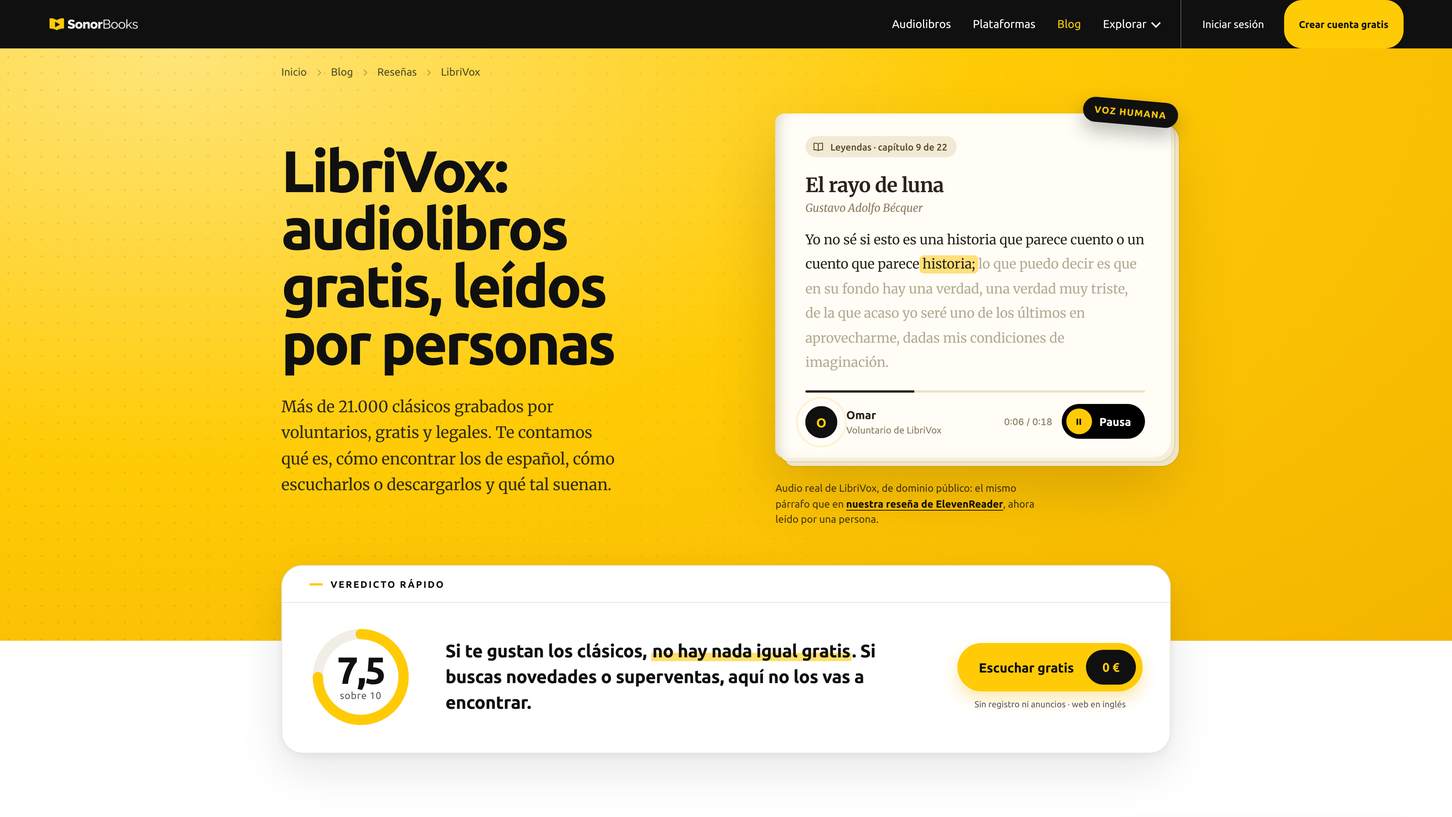
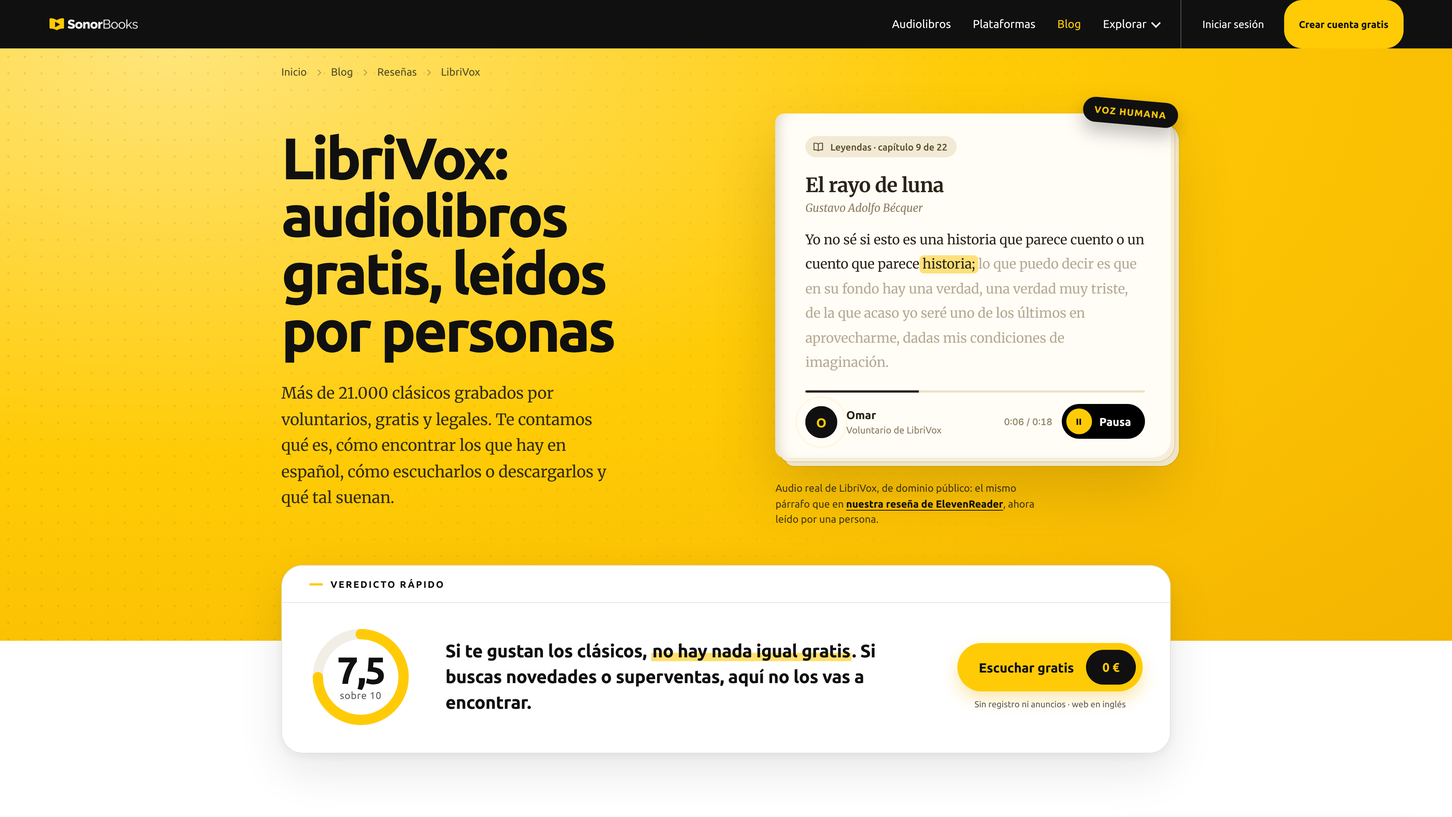
LibriVox: correcciones de la revisión y vídeo final
- Página: aviso de LibriVox completo, regla de España con el 1 de enero
  siguiente, ejemplos solo de autores españoles, M4B en varias partes en los
  libros largos, la prueba de un minuto es una sección del foro (no una
  audición) y ajustes de estilo.
- Vídeo: la escena del blog muestra la portada actualizada de la página.
- Carrusel: imágenes reales de los artículos relacionados (la web vuelve a
  responder) y dossier con la estantería y las comprobaciones.

Claude-Session: https://claude.ai/code/session_01EFLxXPykYNns1C6MHigM3j

Changed region(s): [[0.1875, 0.1551, 0.4375, 0.6204]]

diff --git a/web/librivox-resena/src/page.html b/web/librivox-resena/src/page.html
@@ -69,7 +69,7 @@
   <div class="lv-hero__grid">
    <div class="lv-hero__copy">
     <h1 class="lv-h1" id="lv-title">LibriVox: <span class="lv-h1__q">audiolibros gratis, leídos por personas</span></h1>
-    <p class="lv-deck">Más de 21.000 clásicos grabados por voluntarios, gratis y legales. Te contamos qué es, cómo encontrar los de español, cómo escucharlos o descargarlos y qué tal suenan.</p>
+    <p class="lv-deck">Más de 21.000 clásicos grabados por voluntarios, gratis y legales. Te contamos qué es, cómo encontrar los que hay en español, cómo escucharlos o descargarlos y qué tal suenan.</p>
    </div>
    <div class="lv-stage">
     <figure class="lv-book" data-player="hero-omar" data-demo>
@@ -135,7 +135,7 @@
     <h2 class="lv-h2" id="h-que">Qué es LibriVox y por qué es gratis</h2>
     <div class="lv-prose">
      <p class="lv-lead">Es un proyecto sin ánimo de lucro con un objetivo enorme: que <strong>todos los libros de dominio público tengan su audiolibro</strong>, leído por personas reales y gratis para todo el mundo. Lo fundó Hugh McGuire en agosto de 2005.</p>
-     <p>No tiene anuncios, ni cuentas, ni cuotas. Los voluntarios graban los libros, <strong>Internet Archive</strong> guarda los audios y cualquiera puede escucharlos o descargarlos. Y como las grabaciones también son de dominio público, puedes hacer con ellas lo que quieras.</p>
+     <p>No tiene anuncios ni cuotas, y para escuchar no hace falta cuenta. Los voluntarios graban los libros, <strong>Internet Archive</strong> guarda los audios y cualquiera puede escucharlos o descargarlos. Y como las grabaciones también son de dominio público, puedes usarlas libremente (en España, con un matiz que te contamos más abajo).</p>
     </div>
    </div>
    <ul class="lv-facts" aria-label="LibriVox en cifras" data-stagger>
@@ -146,7 +146,7 @@
    </ul>
    <p class="lv-source">Catálogo de LibriVox consultado el 12 de octubre de 2026 con su API pública; voluntarios, según LibriVox en agosto de 2025.</p>
    <div class="lv-keys">
-    <div class="lv-key" data-reveal><i><svg aria-hidden="true"><use href="#i-pd"/></svg></i><h3>Dominio público</h3><p>Solo graba libros sin derechos de autor, y regala sus grabaciones al dominio público.</p></div>
+    <div class="lv-key" data-reveal><i><svg aria-hidden="true"><use href="#i-pd"/></svg></i><h3>Dominio público</h3><p>Solo graba libros de dominio público en EE.&nbsp;UU. y cede sus grabaciones al dominio público.</p></div>
     <div class="lv-key" data-reveal><i><svg aria-hidden="true"><use href="#i-mic"/></svg></i><h3>Personas reales</h3><p>Cada capítulo lo lee un voluntario. Nada de voces sintéticas.</p></div>
     <div class="lv-key" data-reveal><i><svg aria-hidden="true"><use href="#i-gift"/></svg></i><h3>Gratis para todos</h3><p>Sin registro, sin anuncios y sin cuotas, para escuchar y para descargar.</p></div>
    </div>
@@ -170,13 +170,13 @@
   <!-- ¿Es legal? -->
   <section class="lv-sec" id="es-legal" aria-labelledby="h-legal">
    <div class="lv-head">
-    <h2 class="lv-h2" id="h-legal">¿Es legal? Sí: así funciona el dominio público</h2>
+    <h2 class="lv-h2" id="h-legal">¿Es legal? Sí, con un matiz en España</h2>
     <div class="lv-prose">
-     <p>LibriVox solo graba libros que ya no tienen derechos de autor en Estados Unidos: en la práctica, <strong>los publicados hace 95 años o más</strong>. Hoy, todo lo publicado hasta 1930.</p>
+     <p>LibriVox solo graba libros que ya no tienen derechos de autor en Estados Unidos: en la práctica, <strong>los publicados hace 95 años completos o más</strong>: hoy, todo lo publicado hasta 1930.</p>
      <p>Por eso aquí no hay novedades: <strong>hay clásicos</strong>. Y una traducción cuenta como una obra nueva, con sus propios derechos.</p>
     </div>
    </div>
-   <figure class="lv-ruler" data-ruler role="img" aria-label="Línea del tiempo: los libros publicados hasta 1930 son de dominio público en Estados Unidos; los posteriores aún tienen derechos de autor">
+   <figure class="lv-ruler" data-ruler role="img" aria-label="Línea del tiempo: los libros publicados hasta 1930 son de dominio público en Estados Unidos; los posteriores pueden tener aún derechos de autor">
     <div class="lv-ruler__track">
      <span class="lv-ruler__pd"><span class="lv-ruler__l">Dominio público en EE.&nbsp;UU.</span><span class="lv-ruler__s">Libres</span></span>
      <span class="lv-ruler__cr">Con derechos</span>
@@ -187,18 +187,18 @@
    <div class="lv-es" id="espana">
     <div class="lv-es__txt">
      <h3 class="lv-h3">¿Y en España?</h3>
-     <p>LibriVox sigue la ley de Estados Unidos, y en cada ficha avisa:</p>
-     <blockquote class="lv-quote"><p lang="en">«LibriVox recordings are Public Domain in the USA. If you are not in the USA, please verify the copyright status of these works in your own country before downloading.»</p><p class="lv-quote__es">Las grabaciones son de dominio público en EE.&nbsp;UU. Si no estás allí, comprueba la situación de cada obra en tu país antes de descargarla.</p></blockquote>
-     <p>En España, una obra queda libre <strong>80 años después de la muerte de su autor</strong> si murió antes del 7 de diciembre de 1987 (70 años, si murió más tarde). En una traducción también cuenta el traductor.</p>
-     <p>La mayoría de clásicos en español de LibriVox también son libres aquí, <strong>pero no todos</strong>: de sus 564 audiolibros en español, 20 son de autores que murieron en 1946 o después. Por ejemplo:</p>
+     <p>LibriVox sigue la ley de Estados Unidos y en cada ficha avisa:</p>
+     <blockquote class="lv-quote"><p lang="en">«LibriVox recordings are Public Domain in the USA. If you are not in the USA, please verify the copyright status of these works in your own country before downloading, otherwise you may be violating copyright laws.»</p><p class="lv-quote__es">Las grabaciones son de dominio público en EE.&nbsp;UU. Si no estás allí, comprueba la situación de estas obras en tu país antes de descargarlas; de lo contrario, podrías infringir la ley.</p></blockquote>
+     <p>En España, una obra queda libre <strong>80 años después de la muerte de su autor</strong>, contados desde el 1 de enero siguiente, si murió antes del 7 de diciembre de 1987 (70 años, si murió más tarde). En una traducción cuentan también los derechos del traductor.</p>
+     <p>La mayoría de los clásicos en español de LibriVox también son libres aquí, <strong>pero no todos</strong>: de sus 564 audiolibros en español, 20 son de autores que murieron en 1946 o después. Por ejemplo:</p>
     </div>
     <ul class="lv-es__list" aria-label="Libros en español de LibriVox que aún tienen derechos en España">
      <li><span class="lv-es__book"><b>Platero y yo</b><small>Juan Ramón Jiménez († 1958)</small></span><span class="lv-es__year"><small>libre en España en</small>2039</span></li>
      <li><span class="lv-es__book"><b>Las inquietudes de Shanti Andía</b><small>Pío Baroja († 1956)</small></span><span class="lv-es__year"><small>libre en España en</small>2037</span></li>
      <li><span class="lv-es__book"><b>La rana viajera</b><small>Julio Camba († 1962)</small></span><span class="lv-es__year"><small>libre en España en</small>2043</span></li>
-     <li><span class="lv-es__book"><b>El habitante y su esperanza</b><small>Pablo Neruda († 1973)</small></span><span class="lv-es__year"><small>libre en España en</small>2054</span></li>
+     <li><span class="lv-es__book"><b>Memorias de un vagón de ferrocarril</b><small>Eduardo Zamacois († 1971)</small></span><span class="lv-es__year"><small>libre en España en</small>2052</span></li>
     </ul>
-    <p class="lv-es__note">También hay traducciones de autores como H.&nbsp;G. Wells, Thomas Mann o Edgar Rice Burroughs. Es la regla general, no un asesoramiento legal: si dudas con una obra, compruébala antes de descargarla.</p>
+    <p class="lv-es__note">Es la regla general para autores españoles, no asesoramiento jurídico: en las obras de autores de otros países y en las traducciones el cálculo puede cambiar. Si tienes dudas sobre una obra, compruébala antes de descargarla.</p>
    </div>
   </section>
 
@@ -207,8 +207,8 @@
    <div class="lv-head">
     <h2 class="lv-h2" id="h-cat">El catálogo en español: más de mil obras</h2>
     <div class="lv-prose">
-     <p>El español es el <strong>cuarto idioma de LibriVox</strong>, muy por detrás del inglés. Su web cuenta 1.042 obras completadas en español (cada poema o relato de una antología cuenta aparte). En libros, son <strong>más de 550 audiolibros y más de 3.500 horas</strong>.</p>
-     <p>Hay novela, poesía, teatro, cuentos, ensayo y hasta la Biblia. Los autores con más títulos son Pérez Galdós (50), Valle-Inclán (12), Blasco Ibáñez y Pardo Bazán (11 cada uno), Unamuno (9) y Cervantes (8), y hay traducciones de Poe, Victor Hugo, Tolstói, Dumas, Verne o Dickens.</p>
+     <p>En la web de LibriVox, el español es el <strong>cuarto idioma</strong>, muy por detrás del inglés: 1.042 obras completadas (cada poema o relato de una antología se cuenta por separado). En audiolibros, son <strong>más de 550, más que en francés, y más de 3.500 horas</strong>.</p>
+     <p>Hay novela, poesía, teatro, cuentos, ensayo y hasta la Biblia. Los autores con más títulos son Pérez Galdós (50), Valle-Inclán (12), Blasco Ibáñez y Pardo Bazán (11 cada uno), Unamuno (9) y Cervantes (8). También hay traducciones de Poe, Victor Hugo, Tolstói, Dumas, Verne o Dickens.</p>
     </div>
    </div>
    <figure class="lv-langs" data-langs>
@@ -254,14 +254,14 @@
      <ol class="lv-num">
       <li><b>Abre el catálogo por idioma.</b> En <span lang="en">«Browse the catalog»</span>, pulsa <span lang="en">«Language»</span>.</li>
       <li><b>Elige <span lang="en">«Spanish»</span>.</b> Verás todas las obras en español, por orden alfabético.</li>
-      <li><b>Filtra si quieres.</b> En <span lang="en">«Project type»</span>, <span lang="en">«solo»</span> deja solo los libros leídos por una persona; <span lang="en">«group»</span>, los que leen varias.</li>
+      <li><b>Filtra si quieres.</b> En <span lang="en">«Project type»</span>, <span lang="en">«solo»</span> muestra únicamente los libros leídos por una persona; <span lang="en">«group»</span>, los que leen varias.</li>
       <li><b>Mira la línea gris de cada libro.</b> Dice si está terminado (<span lang="en">«Complete»</span>) y si lo lee una sola voz (<span lang="en">«Solo»</span>) o varias (<span lang="en">«Collaborative»</span>).</li>
      </ol>
     </div>
     <figure class="lv-fig lv-fig--stack">
-     <button type="button" data-zoom aria-label="Ampliar captura: catálogo por idioma"><img src="{{A}}/media/librivox-catalogo-por-idioma.webp" width="1600" height="1056" alt="Catálogo de LibriVox por idioma con la pestaña Language (1) y la fila Spanish, con 1.042 obras completadas (2)" loading="lazy" decoding="async"></button>
-     <button type="button" data-zoom aria-label="Ampliar captura: lista de audiolibros en español"><img src="{{A}}/media/librivox-lista-en-espanol.webp" width="1600" height="880" alt="Lista de audiolibros en español de LibriVox con el filtro Project type (3) y la línea Complete, Solo, Spanish (4)" loading="lazy" decoding="async"></button>
-     <figcaption>Los números de las capturas son los pasos de la izquierda.</figcaption>
+     <button type="button" data-zoom aria-label="Ampliar captura: catálogo por idioma"><img src="{{A}}/media/librivox-catalogo-por-idioma.webp" width="1600" height="1056" alt="Catálogo de LibriVox por idioma con la pestaña «Language» (1) y la fila «Spanish», con 1.042 obras completadas (2)" loading="lazy" decoding="async"></button>
+     <button type="button" data-zoom aria-label="Ampliar captura: lista de audiolibros en español"><img src="{{A}}/media/librivox-lista-en-espanol.webp" width="1600" height="880" alt="Lista de audiolibros en español de LibriVox con el filtro «Project type» (3) y la línea «Complete | Solo | Spanish» (4)" loading="lazy" decoding="async"></button>
+     <figcaption>Los números de las capturas corresponden a los pasos.</figcaption>
     </figure>
    </div>
    <div class="lv-split lv-split--guide">
@@ -275,7 +275,7 @@
      <p class="lv-tip">En <span lang="en">«Advanced search»</span>, debajo del buscador, combinas idioma, tipo de lectura, género y estado.</p>
     </div>
     <figure class="lv-fig">
-     <button type="button" data-zoom aria-label="Ampliar captura: búsqueda de quijote"><img src="{{A}}/media/librivox-busqueda-quijote.webp" width="1600" height="1158" alt="Búsqueda de quijote en LibriVox (1): Don Quijote 1, colaborativo (2), y El ingenioso hidalgo Don Quijote de la Mancha, con una sola voz (3)" loading="lazy" decoding="async"></button>
+     <button type="button" data-zoom aria-label="Ampliar captura: búsqueda de quijote"><img src="{{A}}/media/librivox-busqueda-quijote.webp" width="1600" height="1158" alt="Búsqueda de «quijote» en LibriVox (1): «Don Quijote 1», colaborativo (2), y «El ingenioso hidalgo Don Quijote de la Mancha», con una sola voz (3)" loading="lazy" decoding="async"></button>
      <figcaption>Buscamos «quijote»: hay una versión colaborativa en dos partes y otra con una sola voz.</figcaption>
     </figure>
    </div>
@@ -295,11 +295,11 @@
     </figure>
     <ol class="lv-legend">
      <li><b>Escuchar ya.</b> El botón de play de cada capítulo lo reproduce en el navegador (MP3 de 64&nbsp;kbps).</li>
-     <li><b>Descargar un capítulo.</b> Su título es el MP3 en alta calidad (128&nbsp;kbps): clic derecho › «Guardar enlace como…».</li>
+     <li><b>Descargar un capítulo.</b> Su título enlaza al MP3 en alta calidad (128&nbsp;kbps): clic derecho › «Guardar enlace como…».</li>
      <li><b>Quién lee y cuánto dura</b> cada capítulo.</li>
      <li><b>El libro entero</b> (<span lang="en">«Whole book»</span>): un ZIP con todos los MP3. Este ocupa 290&nbsp;MB.</li>
      <li><b>RSS:</b> el libro como pódcast, para escucharlo en el móvil (te lo explicamos abajo).</li>
-     <li><b>M4B:</b> un archivo de audiolibro con capítulos que recuerda por dónde vas. Lo tienen la mayoría de libros; los largos, en varias partes.</li>
+     <li><b>M4B:</b> un archivo de audiolibro con capítulos que recuerda por dónde vas. Lo tienen la mayoría de los libros; los largos, en varias partes.</li>
      <li><b>El aviso</b> de dominio público: comprueba tu país.</li>
      <li><b>Los datos de la grabación:</b> duración total, tamaño del ZIP, coordinador y revisor.</li>
     </ol>
@@ -309,7 +309,7 @@
     <li><svg aria-hidden="true"><use href="#i-headphones"/></svg><b>Para escuchar ahora</b><span>El botón de play de cada capítulo, en la web. Sin descargar nada.</span></li>
     <li><svg aria-hidden="true"><use href="#i-phone"/></svg><b>Para el móvil</b><span>El RSS en tu app de pódcasts, o el M4B en una app de audiolibros.</span></li>
     <li><svg aria-hidden="true"><use href="#i-zip"/></svg><b>Para guardarlo todo</b><span>El ZIP del libro entero, con un MP3 por capítulo.</span></li>
-    <li><svg aria-hidden="true"><use href="#i-book"/></svg><b>Para no perder el punto</b><span>El M4B: un solo archivo, con capítulos, que recuerda por dónde vas.</span></li>
+    <li><svg aria-hidden="true"><use href="#i-book"/></svg><b>Para no perder el hilo</b><span>El M4B: un archivo de audiolibro (o varios, si el libro es largo), con capítulos, que recuerda por dónde vas.</span></li>
    </ul>
    <div class="lv-note lv-note--plain">
     <svg aria-hidden="true"><use href="#i-bulb"/></svg>
@@ -329,7 +329,7 @@
     <div class="lv-tabs" data-tabs>
      <div role="tablist" aria-label="Cómo escuchar LibriVox en el móvil">
       <button role="tab" type="button" id="mt-rss" aria-controls="mp-rss" aria-selected="true" tabindex="0">App de pódcasts</button>
-      <button role="tab" type="button" id="mt-dl" aria-controls="mp-dl" aria-selected="false" tabindex="-1">Descargando</button>
+      <button role="tab" type="button" id="mt-dl" aria-controls="mp-dl" aria-selected="false" tabindex="-1">Descarga directa</button>
       <button role="tab" type="button" id="mt-app" aria-controls="mp-app" aria-selected="false" tabindex="-1">Otras apps</button>
       <button role="tab" type="button" id="mt-web" aria-controls="mp-web" aria-selected="false" tabindex="-1">Navegador</button>
      </div>
@@ -340,7 +340,7 @@
        <li><span>Copia el enlace del botón <b>RSS</b></span></li>
        <li>En tu app de pódcasts, añade un programa por URL</li>
       </ol>
-      <p>Lo permiten la mayoría de apps de pódcasts, como Apple Podcasts, Pocket Casts o AntennaPod; Spotify, no. Pruébalo con las <em>Leyendas</em>:</p>
+      <p>Lo permiten la mayoría de las apps de pódcasts, como Apple Podcasts, Pocket Casts o AntennaPod; Spotify, no. Pruébalo con las <em>Leyendas</em>:</p>
       <div class="lv-copy" data-copy>
        <code data-copy-text="https://librivox.org/rss/5079">librivox.org/rss/5079</code>
        <button type="button" data-copy-btn aria-label="Copiar la dirección del RSS de las Leyendas"><svg aria-hidden="true"><use href="#i-copy"/></svg><span data-copy-label>Copiar</span></button>
@@ -353,10 +353,10 @@
        <li>Copia los archivos al móvil</li>
        <li>Ábrelos con una app de audiolibros o de música</li>
       </ol>
-      <p>El M4B es lo más cómodo: un solo archivo, con capítulos, que recuerda por dónde ibas.</p>
+      <p>El M4B es lo más cómodo: tiene capítulos y recuerda por dónde ibas (en los libros largos viene en varias partes).</p>
      </div>
      <div role="tabpanel" id="mp-app" aria-labelledby="mt-app" hidden>
-      <p class="lv-tabs__lead">En la App Store y en Google Play hay apps gratuitas con todo el catálogo de LibriVox.</p>
+      <p class="lv-tabs__lead">Hay apps gratuitas de otros desarrolladores para escuchar el catálogo de LibriVox en el móvil.</p>
       <p>Por ejemplo, «AudioLibros LibriVox» tenía 4,6 estrellas con 765 valoraciones en la App Store de España (12 de octubre de 2026). <strong>No son de LibriVox:</strong> antes de instalar una, mira quién la publica, qué datos pide y si lleva anuncios.</p>
      </div>
      <div role="tabpanel" id="mp-web" aria-labelledby="mt-web" hidden>
@@ -444,7 +444,7 @@
      <span class="lv-steps__fill" aria-hidden="true"></span>
      <ol class="lv-steps" data-steps>
       <li><div><h3>Regístrate en su foro</h3><p>Todo pasa en el foro de LibriVox: allí se proponen los libros, se reparten los capítulos y se resuelven las dudas.</p></div></li>
-      <li><div><h3>Graba la prueba de un minuto</h3><p>Súbela al hilo <span lang="en">«Post Your 1-Minute Test Recording Here»</span> y te dirán si el sonido está bien.</p></div></li>
+      <li><div><h3>Graba la prueba de un minuto</h3><p>Publícala en la sección <span lang="en">«Post Your 1-Minute Test Recording Here»</span> del foro. No es una audición: solo comprueban que tu equipo suena bien.</p></div></li>
       <li><div><h3>Reserva un capítulo</h3><p>Empieza por un proyecto colaborativo, en el que cada voluntario lee unos capítulos. Para leer un libro entero tú solo, antes hay que haber hecho uno de estos.</p></div></li>
       <li><div><h3>Grábalo y súbelo</h3><p>Un revisor (el <span lang="en">«proof listener»</span>) lo escucha y te avisa si hay que corregir algo.</p></div></li>
       <li><div><h3>Ya está: tu voz, para todo el mundo</h3><p>Cuando el libro está completo, se publica gratis y en el dominio público, como todas las grabaciones de LibriVox.</p></div></li>
@@ -461,8 +461,8 @@
       </ul>
      </div>
      <figure class="lv-fig">
-      <button type="button" data-zoom aria-label="Ampliar captura: foro de LibriVox"><img src="{{A}}/media/librivox-foro-voluntarios.webp" width="1600" height="613" alt="Foro de LibriVox con el enlace para registrarse (1) y el hilo para subir la prueba de un minuto (2)" loading="lazy" decoding="async"></button>
-      <figcaption>El foro de LibriVox: registro (1) y el hilo de la prueba de un minuto (2).</figcaption>
+      <button type="button" data-zoom aria-label="Ampliar captura: foro de LibriVox"><img src="{{A}}/media/librivox-foro-voluntarios.webp" width="1600" height="613" alt="Foro de LibriVox con el enlace para registrarse (1) y la sección para publicar la prueba de un minuto (2)" loading="lazy" decoding="async"></button>
+      <figcaption>El foro de LibriVox: registro (1) y la sección de la prueba de un minuto (2).</figcaption>
      </figure>
     </div>
    </div>
@@ -569,8 +569,8 @@
   <!-- Cómo lo probamos (compacto) -->
   <section class="lv-method" id="fuentes" aria-labelledby="h-fue">
    <h2 class="lv-method__h" id="h-fue">Cómo lo probamos</h2>
-   <p>Usamos LibriVox el 12 de octubre de 2026 en la web, sin registrarnos: recorrimos el catálogo en español, buscamos varios clásicos, escuchamos y descargamos capítulos de las <em>Leyendas</em> de Bécquer, revisamos sus formatos de descarga y su canal RSS, y contamos el catálogo con su API pública (22.406 proyectos; 564 audiolibros en español con audio). Los audios de esta página son grabaciones de LibriVox, de dominio público, leídas por Omar, Elena del Valle, Vicente Cepeda y Rosacarmela.</p>
-   <p class="lv-method__src"><span>Fuentes:</span> <a href="https://librivox.org/pages/about-librivox/" target="_blank" rel="noopener noreferrer">qué es LibriVox</a> · <a href="https://librivox.org/pages/public-domain/" target="_blank" rel="noopener noreferrer">dominio público</a> · <a href="https://librivox.org/pages/about-listening-to-librivox/" target="_blank" rel="noopener noreferrer">cómo escuchar</a> · <a href="https://wiki.librivox.org/index.php/How_to_Listen" target="_blank" rel="noopener noreferrer">guía de escucha</a> · <a href="https://librivox.org/pages/volunteer-for-librivox/" target="_blank" rel="noopener noreferrer">ser voluntario</a> · <a href="https://librivox.org/2025/08/01/happy-20th-anniversary-librivox/" target="_blank" rel="noopener noreferrer">20 aniversario</a> · <a href="https://librivox.org/2026/09/16/librivox-api-update/" target="_blank" rel="noopener noreferrer">canal oficial</a> · <a href="https://librivox.org/api/info" target="_blank" rel="noopener noreferrer">API</a> · <a href="https://www.boe.es/buscar/act.php?id=BOE-A-1996-8930" target="_blank" rel="noopener noreferrer">Ley de Propiedad Intelectual</a> · <a href="https://apps.apple.com/es/app/audiolibros-librivox/id596159212" target="_blank" rel="noopener noreferrer">App Store (España)</a> · <a href="/es/blog/criterios-editoriales/">cómo hacemos las reseñas</a></p>
+   <p>Usamos LibriVox el 12 de octubre de 2026 en la web, sin registrarnos: recorrimos el catálogo en español, buscamos varios clásicos, escuchamos y descargamos capítulos de las <em>Leyendas</em> de Bécquer, revisamos sus formatos de descarga y su canal RSS, y contamos el catálogo con su API pública (22.406 proyectos; 564 audiolibros en español). Los audios de esta página son grabaciones de LibriVox, de dominio público, leídas por Omar, Elena del Valle, Vicente Cepeda y Rosacarmela.</p>
+   <p class="lv-method__src"><span>Fuentes:</span> <a href="https://librivox.org/pages/about-librivox/" target="_blank" rel="noopener noreferrer">qué es LibriVox</a> · <a href="https://librivox.org/pages/public-domain/" target="_blank" rel="noopener noreferrer">dominio público</a> · <a href="https://librivox.org/pages/about-listening-to-librivox/" target="_blank" rel="noopener noreferrer">cómo escuchar</a> · <a href="https://wiki.librivox.org/index.php/How_to_Listen" target="_blank" rel="noopener noreferrer">guía de escucha</a> · <a href="https://librivox.org/pages/volunteer-for-librivox/" target="_blank" rel="noopener noreferrer">ser voluntario</a> · <a href="https://librivox.org/2025/08/01/happy-20th-anniversary-librivox/" target="_blank" rel="noopener noreferrer">20.º aniversario</a> · <a href="https://librivox.org/2026/09/16/librivox-api-update/" target="_blank" rel="noopener noreferrer">canal oficial</a> · <a href="https://librivox.org/api/info" target="_blank" rel="noopener noreferrer">API</a> · <a href="https://www.boe.es/buscar/act.php?id=BOE-A-1996-8930" target="_blank" rel="noopener noreferrer">Ley de Propiedad Intelectual</a> · <a href="https://apps.apple.com/es/app/audiolibros-librivox/id596159212" target="_blank" rel="noopener noreferrer">App Store (España)</a> · <a href="/es/blog/criterios-editoriales/">cómo hacemos las reseñas</a></p>
    <p class="lv-method__aff">SonorBooks no tiene ninguna relación comercial con LibriVox: es gratis y no recibimos nada si lo usas. Las capturas de librivox.org se usan con fines de reseña.</p>
   </section>
  </article>

diff --git a/blog/librivox/librivox.md b/blog/librivox/librivox.md
@@ -18,7 +18,7 @@ https://sonorbooks.com/es/blog/librivox-resena/. Este texto es la versión de re
 
 # LibriVox: audiolibros gratis, leídos por personas
 
-**Más de 21.000 clásicos grabados por voluntarios, gratis y legales.** Te contamos qué es LibriVox, por qué es legal, cómo encontrar los libros en español, cómo escucharlos o descargarlos, cómo usarlo en el móvil y qué tal suenan sus voces.
+**Más de 21.000 clásicos grabados por voluntarios, gratis y legales.** Te contamos qué es LibriVox, por qué es legal, cómo encontrar los que hay en español, cómo escucharlos o descargarlos, cómo usarlo en el móvil y qué tal suenan sus voces.
 
 > **Veredicto rápido · 7,5/10**
 > Si te gustan los clásicos, **no hay nada igual gratis**: sin registro, sin anuncios y con los archivos para ti. Si buscas novedades o superventas, aquí no los vas a encontrar.
@@ -29,7 +29,7 @@ https://sonorbooks.com/es/blog/librivox-resena/. Este texto es la versión de re
 
 LibriVox es un proyecto sin ánimo de lucro con un objetivo enorme: que **todos los libros de dominio público tengan su audiolibro**, leído por personas reales y gratis para todo el mundo. Lo fundó Hugh McGuire en agosto de 2005.
 
-No tiene anuncios, ni cuentas, ni cuotas. Los voluntarios graban los libros, Internet Archive guarda los audios y cualquiera puede escucharlos o descargarlos. Las grabaciones también son de dominio público.
+No tiene anuncios ni cuotas, y para escuchar no hace falta cuenta. Los voluntarios graban los libros, Internet Archive guarda los audios y cualquiera puede escucharlos o descargarlos. Las grabaciones también son de dominio público.
 
 - **2005**, el año en que nació.
 - **Más de 21.000** audiolibros terminados y **más de 132.000 horas** de audio (catálogo consultado con su API el 12/10/2026).
@@ -37,34 +37,34 @@ No tiene anuncios, ni cuentas, ni cuotas. Los voluntarios graban los libros, Int
 
 Cada capítulo empieza con el mismo aviso: «Esta es una grabación de LibriVox. Todas las grabaciones de LibriVox son del dominio público. Para más información o para ser voluntario, por favor visite librivox.org».
 
-## ¿Es legal? Sí: así funciona el dominio público
+## ¿Es legal? Sí, con un matiz en España
 
-LibriVox solo graba libros sin derechos de autor en Estados Unidos: en la práctica, **los publicados hace 95 años o más** (hoy, todo lo publicado hasta 1930). Por eso no hay novedades, sino clásicos. Una traducción cuenta como obra nueva, con sus propios derechos.
+LibriVox solo graba libros sin derechos de autor en Estados Unidos: en la práctica, **los publicados hace 95 años completos o más** (hoy, todo lo publicado hasta 1930). Por eso no hay novedades, sino clásicos. Una traducción cuenta como obra nueva, con sus propios derechos.
 
-**¿Y en España?** En cada ficha, LibriVox avisa: «LibriVox recordings are Public Domain in the USA. If you are not in the USA, please verify the copyright status of these works in your own country before downloading». En España, una obra queda libre 80 años después de la muerte de su autor si murió antes del 7 de diciembre de 1987 (70 años, si murió después); en una traducción también cuenta el traductor.
+**¿Y en España?** En cada ficha, LibriVox avisa: «LibriVox recordings are Public Domain in the USA. If you are not in the USA, please verify the copyright status of these works in your own country before downloading, otherwise you may be violating copyright laws». En España, una obra queda libre 80 años después de la muerte de su autor, contados desde el 1 de enero siguiente, si murió antes del 7 de diciembre de 1987 (70 años, si murió después); en una traducción cuentan también los derechos del traductor.
 
-La mayoría de sus clásicos en español también son libres aquí, pero no todos: de sus 564 audiolibros en español, 20 son de autores que murieron en 1946 o después. Por ejemplo, *Platero y yo* (Juan Ramón Jiménez, † 1958: libre en España en 2039), *Las inquietudes de Shanti Andía* (Pío Baroja, † 1956: 2037), *La rana viajera* (Julio Camba, † 1962: 2043) o *El habitante y su esperanza* (Pablo Neruda, † 1973: 2054). Es la regla general, no un asesoramiento legal.
+La mayoría de los clásicos en español también son libres aquí, pero no todos: de sus 564 audiolibros en español, 20 son de autores que murieron en 1946 o después. Por ejemplo, *Platero y yo* (Juan Ramón Jiménez, † 1958: libre en España en 2039), *Las inquietudes de Shanti Andía* (Pío Baroja, † 1956: 2037), *La rana viajera* (Julio Camba, † 1962: 2043) o *Memorias de un vagón de ferrocarril* (Eduardo Zamacois, † 1971: 2052). Es la regla general para autores españoles, no asesoramiento jurídico: con autores de otros países y traducciones el cálculo puede cambiar.
 
 ## El catálogo en español: más de mil obras
 
-El español es el **cuarto idioma de LibriVox** (inglés 42.806 obras, alemán 3.181, francés 1.051, español 1.042, en *Browse the catalog › Language* el 12/10/2026; cada poema o relato de una antología cuenta aparte). En libros, son **más de 550 audiolibros y más de 3.500 horas**. Los autores con más títulos son Pérez Galdós (50), Valle-Inclán (12), Blasco Ibáñez y Pardo Bazán (11), Unamuno (9) y Cervantes (8).
+En la web de LibriVox, el español es el **cuarto idioma** (inglés 42.806 obras, alemán 3.181, francés 1.051, español 1.042, en *Browse the catalog › Language* el 12/10/2026; cada poema o relato de una antología se cuenta por separado). En audiolibros, son **más de 550 (más que en francés) y más de 3.500 horas**. Los autores con más títulos son Pérez Galdós (50), Valle-Inclán (12), Blasco Ibáñez y Pardo Bazán (11), Unamuno (9) y Cervantes (8).
 
 **Por dónde empezar:** *Don Quijote de la Mancha* (44 h 29 min, una voz), *Lazarillo de Tormes* (1 h 57 min), *Leyendas* de Bécquer (10 h 5 min, 11 voces), *Rimas* (54 min), *Marianela* (6 h 1 min), *Fortunata y Jacinta* (1.ª parte, 10 h 53 min), *La Regenta* (tomo I, 15 h 56 min), *Los pazos de Ulloa* (9 h 51 min) y *María*, de Jorge Isaacs (12 h 16 min).
 
 ## Cómo buscar audiolibros en español
 
-**Por idioma:** en «Browse the catalog», pulsa «Language» y elige «Spanish». En «Project type», «solo» deja los libros leídos por una persona; «group», los que leen varias. Debajo de cada título verás si está terminado («Complete») y si lo lee una sola voz («Solo») o varias («Collaborative»).
+**Por idioma:** en «Browse the catalog», pulsa «Language» y elige «Spanish». En «Project type», «solo» muestra únicamente los libros leídos por una persona; «group», los que leen varias. Debajo de cada título verás si está terminado («Complete») y si lo lee una sola voz («Solo») o varias («Collaborative»).
 
 **Con el buscador:** escribe un título, un autor o un lector en «Search by Author, Title or Reader». De muchos clásicos hay varias versiones (del *Quijote*, una colaborativa en dos partes y otra entera con una sola voz). En «Advanced search» combinas idioma, tipo de lectura, género y estado.
 
 ## Escuchar y descargar: la ficha de cada libro
 
 1. **Play:** el capítulo suena en el navegador (MP3 de 64 kbps).
-2. **El título del capítulo:** el MP3 en alta calidad (128 kbps). Clic derecho › «Guardar enlace como…».
+2. **El título del capítulo:** enlaza al MP3 en alta calidad (128 kbps). Clic derecho › «Guardar enlace como…».
 3. **Lector y duración** de cada capítulo.
 4. **Whole book:** el libro entero en un ZIP con todos los MP3.
 5. **RSS:** el libro como pódcast.
-6. **M4B:** un archivo de audiolibro con capítulos que recuerda por dónde vas (la mayoría de libros lo tienen).
+6. **M4B:** un archivo de audiolibro con capítulos que recuerda por dónde vas (lo tienen la mayoría de los libros; los largos, en varias partes).
 7. **El aviso** de dominio público.
 8. **Datos de la grabación:** duración, tamaño del ZIP, coordinador y revisor.
 
@@ -75,7 +75,7 @@ Sin DRM y sin caducidad: los archivos son tuyos.
 LibriVox no tiene app: su único canal oficial es la web. Pero tienes alternativas:
 - **App de pódcasts (nuestro favorito):** copia el enlace del botón RSS de la ficha y añádelo en tu app de pódcasts como programa por URL (Apple Podcasts, Pocket Casts o AntennaPod lo permiten; Spotify, no). Cada capítulo es un episodio que puedes descargar. Ejemplo: `https://librivox.org/rss/5079` (*Leyendas*).
 - **Descargando:** baja el M4B o el ZIP en el ordenador y pásalo al móvil.
-- **Otras apps:** hay apps gratuitas de terceros con todo su catálogo (por ejemplo, «AudioLibros LibriVox», 4,6 estrellas con 765 valoraciones en la App Store de España). No son de LibriVox.
+- **Otras apps:** hay apps gratuitas de otros desarrolladores para escuchar su catálogo (por ejemplo, «AudioLibros LibriVox», 4,6 estrellas con 765 valoraciones en la App Store de España). No son de LibriVox.
 - **Navegador:** la web funciona en el móvil, pero no recuerda por dónde ibas.
 
 ## Las voces: personas reales, y cada una suena distinta
@@ -86,7 +86,7 @@ Los libros los graban voluntarios, así que la calidad cambia de un libro a otro
 
 No hace falta experiencia ni prueba de voz: tu voz, un ordenador, un programa gratuito (la mayoría usa Audacity) y, quizá, un micrófono sencillo.
 1. Regístrate en el foro de LibriVox.
-2. Graba la prueba de un minuto («Post Your 1-Minute Test Recording Here»).
+2. Graba la prueba de un minuto y publícala en la sección «Post Your 1-Minute Test Recording Here» del foro (no es una audición: solo comprueban que tu equipo suena bien).
 3. Reserva un capítulo de un proyecto colaborativo.
 4. Grábalo y súbelo: un revisor (proof listener) lo escucha.
 5. Cuando el libro está completo, se publica gratis y en el dominio público.

diff --git a/research/librivox/dossier.md b/research/librivox/dossier.md
@@ -30,7 +30,10 @@ Todo lo que dicen el vídeo y la página sale de estas fuentes. Cifras tal como 
   su muerte): de los 564 títulos en español con audio, **20** son de autores muertos en 1946 o después (21 de los 586
   proyectos, contando uno sin audio todavía). Ejemplos de autores
   españoles: *Platero y yo* (Juan Ramón Jiménez, † 1958 → libre en España en 2039) y tres novelas de Pío Baroja († 1956 → 2037).
-  También Neruda († 1973), Julio Camba († 1962). El resto, de autores muertos antes de 1946.
+  También Julio Camba († 1962 → 2043, *La rana viajera*) y Eduardo Zamacois († 1971 → 2052, *Memorias de un vagón de ferrocarril*).
+  El resto, de autores muertos antes de 1946. Ojo: para autores de fuera de la UE (Neruda, † 1973, chileno) se aplica la
+  comparación de plazos (el del país de origen si es más corto), y en las traducciones cuenta también el traductor: en la página
+  solo damos años de autores españoles. El plazo se cuenta desde el 1 de enero siguiente a la muerte (art. 30 LPI).
 - Texto de SonorBooks (condiciones de Joan, ficha de plataformas): «LibriVox verifica el dominio público en Estados Unidos;
   comprueba la situación de cada obra en España.»
 
@@ -59,7 +62,8 @@ Todo lo que dicen el vídeo y la página sale de estas fuentes. Cifras tal como 
   Italian) o Reader; búsqueda combinada; búsqueda avanzada (p. ej., solo lecturas «Solo» de un idioma).
 - **En la ficha:** «Play» reproduce el MP3 de 64 kbps en el navegador (clic derecho para descargarlo); el título del capítulo es
   el MP3 de 128 kbps, la grabación original («la diferencia apenas se nota»). «Whole book (zip file)»: todos los MP3 de 64 kbps
-  (de menos de 100 MB a más de 1 GB). Botones iTunes y RSS, torrent. **M4B** «en la mayoría de libros»: guarda por dónde vas, con
+  (de menos de 100 MB a más de 1 GB). Botones iTunes y RSS, torrent. Aviso completo de cada ficha: «…before downloading,
+  otherwise you may be violating copyright laws». **M4B** «en la mayoría de libros»: guarda por dónde vas, con
   portada e índice. En la página de Internet Archive: OGG, reproductor en streaming y MP3 VBR en los más nuevos.
 - **Datos de producción en la ficha:** duración, tamaño del ZIP, fecha de catálogo, lector, coordinador, revisor (proof listener).
 - **Pódcast:** cada libro tiene su RSS (`librivox.org/rss/<id>`): se pega en una app de pódcasts y cada sección es un episodio
@@ -98,6 +102,7 @@ Todo lo que dicen el vídeo y la página sale de estas fuentes. Cifras tal como 
   Selección SonorBooks: *Doña Perfecta*, *Entremeses*, *Cautiva*, *Abel Sánchez*, *Entre naranjos*.
 - Reseña actual: `/es/blog/librivox-resena/`, «LibriVox en español: audiolibros gratis y descarga» (3 min). La página nueva la sustituye.
 - 12/10/2026, 13:47–13:50: sonorbooks.com devolvía 503 en todas las páginas HTML (los archivos estáticos sí cargaban). Avisado a Joan.
+  Hacia las 15:05 fallaban también los archivos estáticos (503); a las 16:12 la web volvía a responder (200).
 
 ## Fuentes
 
@@ -115,3 +120,24 @@ Todo lo que dicen el vídeo y la página sale de estas fuentes. Cifras tal como 
 - https://librivox.org/leyendas-by-gustavo-adolfo-becquer/
 - https://apps.apple.com/es/app/audiolibros-librivox/id596159212
 - Ley de Propiedad Intelectual (RDL 1/1996), art. 26 y disposición transitoria cuarta: https://www.boe.es/buscar/act.php?id=BOE-A-1996-8930
+
+## Estantería de la página (API con `extended=1`, 12/10/2026)
+
+| Libro | Autor | Duración | Lectores |
+|---|---|---|---|
+| El ingenioso hidalgo Don Quijote de la Mancha (id 20198, 2025) | Cervantes | 44:28:36 | 1 (Lu), 128 secciones |
+| Lazarillo de Tormes (3579) | Anónimo | 1:56:36 | 1 (Tux) |
+| Leyendas (5079) | Bécquer | 10:04:53 | 11 |
+| Rimas (13242) | Bécquer | 0:54:03 | 1 (KendalRigans) |
+| Marianela (16285) | Pérez Galdós | 6:00:40 | 1 (Maritza Mateo) |
+| Fortunata y Jacinta, 1.ª parte (14336) | Pérez Galdós | 10:52:38 | 1 (Epachuko) |
+| La Regenta, tomo I (13208) | Clarín | 15:55:44 | 1 (Epachuko) |
+| Los pazos de Ulloa (10541) | Pardo Bazán | 9:50:56 | 1 (Mongope) |
+| María (17676) | Jorge Isaacs | 12:16:25 | 1 (MiltonFMH) |
+
+- Por idiomas en audiolibros (proyectos de la API), el español es el **tercero** (inglés 19.573, alemán 874, español 586, francés 323);
+  en obras de la web, el cuarto. La página dice «cuarto» referido a la web y añade «más que en francés» para los audiolibros.
+- Apps de pódcasts que aceptan un RSS por URL: Apple Podcasts («Seguir un programa por URL»), Pocket Casts y AntennaPod; Spotify, no.
+- En la ficha, el nombre de cada lector enlaza a su página (librivox.org/reader/ID) con todo lo que ha grabado.
+- Foro: «Post Your 1-Minute Test Recording Here» es una sección del foro (cada prueba, un hilo nuevo).
+
